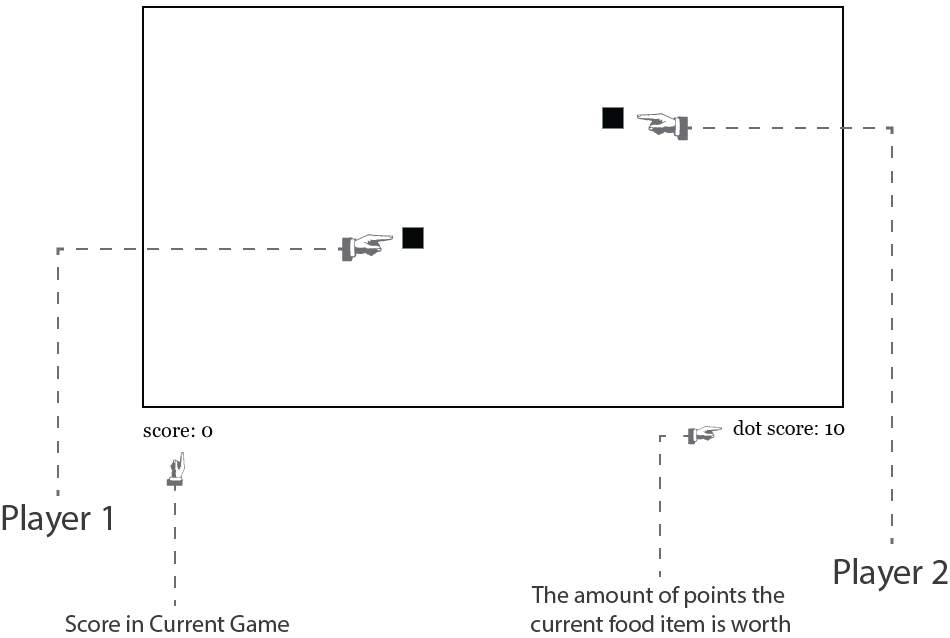
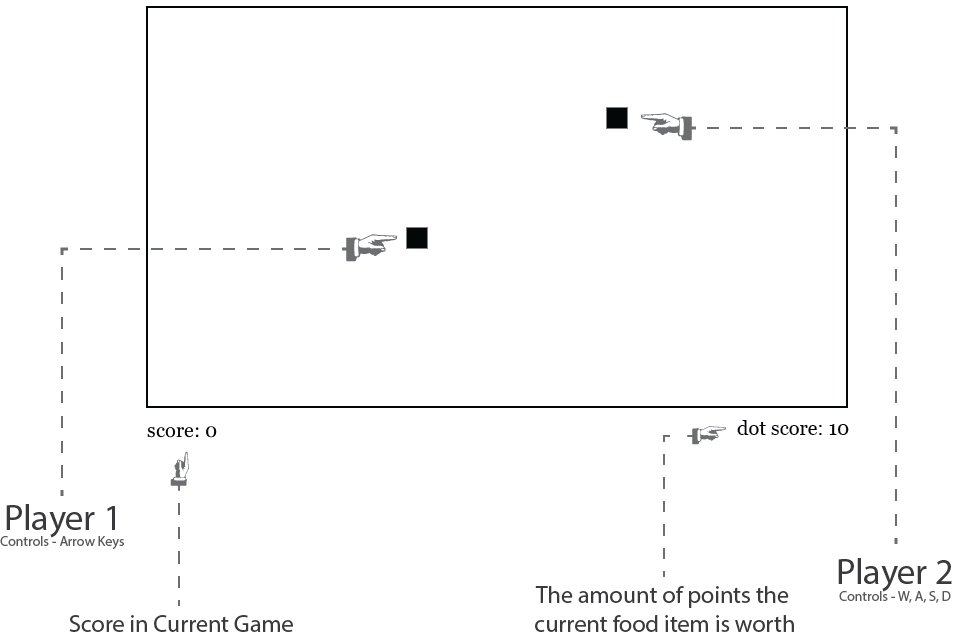
Added additional instructions

diff --git a/instructions.html b/instructions.html
@@ -11,6 +11,24 @@
 	<body>
 		<h1>Instructions</h1>
 		<section id="instructions">
+			<h2>Controls</h2>
+			<ul>
+				<li>Arrow Keys - Player 1</li>
+				<li>W, A, S, D - Player 2</li>
+			</ul>
+			<h2>Unusual controls</h2>
+			<ul>
+				<li>p - Pause the game</li>
+				<li>1 - Set the game to one-player mode and reset</li>
+				<li>2 - Set the game to two-player mode and reset</li>
+			</ul>
+			<h2>Testing controls</h2>
+			<ul>
+				<li>g - Grow all snakes on the board</li>
+				<li>\ - Reset the game and high scores</li>
+			</ul>
+		</section>
+		<section id="images">
 			<h2>Items</h2>
 			<img src="images/items.png" alt="Snake game instructions">
 			<h2>Game layout</h2>

diff --git a/css/main.css b/css/main.css
@@ -4,8 +4,9 @@ body {
 	font-family: 'Open Sans', sans-serif;
 }
 
-section #main {
+section#main {
 	width: 700px;
+	margin: 0 auto;
 }
 
 h1 {
@@ -47,10 +48,6 @@ a:hover {
 pre code {
 	border-radius: 6px;
 	box-shadow: 0px 0px 4px #ccc;
-}
-
-section #instructions {
-	text-align: center;
 }
 
 img {
